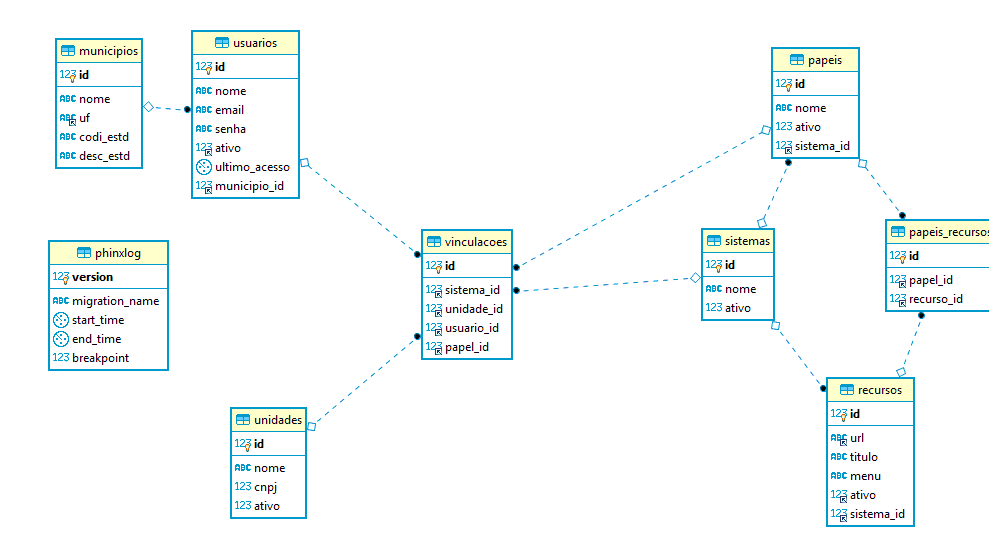
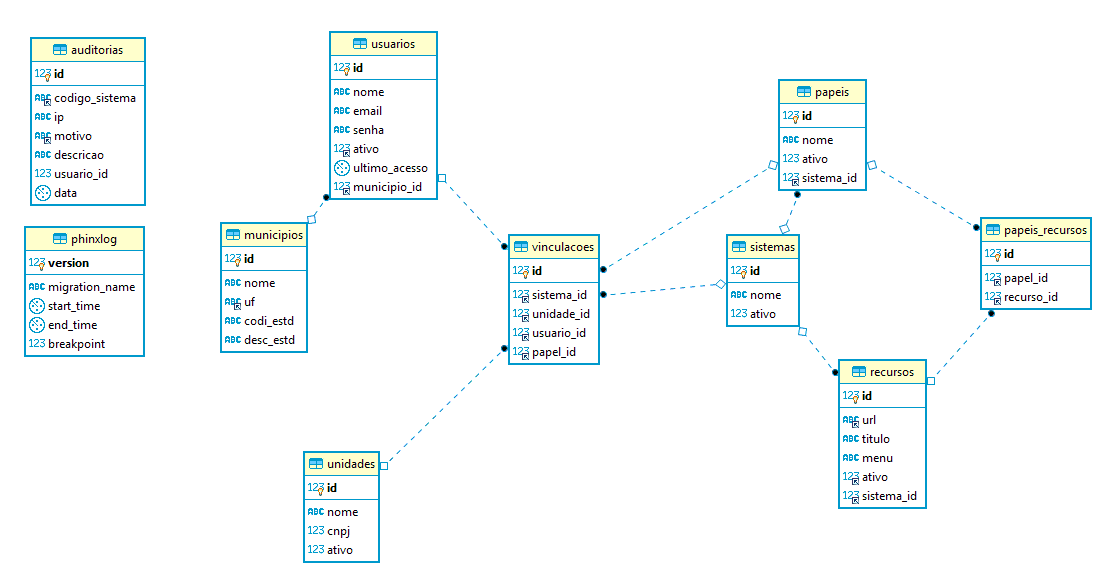
atualizando auditorias

diff --git a/src/Model/Table/AuditoriasTable.php b/src/Model/Table/AuditoriasTable.php
@@ -1,0 +1,115 @@
+<?php
+namespace App\Model\Table;
+
+use Cake\ORM\Query;
+use Cake\ORM\RulesChecker;
+use Cake\ORM\Table;
+use Cake\Validation\Validator;
+use Cake\Event\Event;
+use Cake\Datasource\EntityInterface;
+use ArrayObject;
+use Exception;
+
+/**
+ * Auditorias Model
+ *
+ * @property \App\Model\Table\UsuariosTable&\Cake\ORM\Association\BelongsTo $Usuarios
+ *
+ * @method \App\Model\Entity\Auditoria get($primaryKey, $options = [])
+ * @method \App\Model\Entity\Auditoria newEntity($data = null, array $options = [])
+ * @method \App\Model\Entity\Auditoria[] newEntities(array $data, array $options = [])
+ * @method \App\Model\Entity\Auditoria|false save(\Cake\Datasource\EntityInterface $entity, $options = [])
+ * @method \App\Model\Entity\Auditoria saveOrFail(\Cake\Datasource\EntityInterface $entity, $options = [])
+ * @method \App\Model\Entity\Auditoria patchEntity(\Cake\Datasource\EntityInterface $entity, array $data, array $options = [])
+ * @method \App\Model\Entity\Auditoria[] patchEntities($entities, array $data, array $options = [])
+ * @method \App\Model\Entity\Auditoria findOrCreate($search, callable $callback = null, $options = [])
+ */
+class AuditoriasTable extends Table
+{
+    /**
+     * Initialize method
+     *
+     * @param array $config The configuration for the Table.
+     * @return void
+     */
+    public function initialize(array $config)
+    {
+        parent::initialize($config);
+
+        $this->setTable('auditorias');
+        $this->setDisplayField('motivo');
+        $this->setPrimaryKey('id');
+        $this->setEntityClass('Auditoria');
+    }
+
+    /**
+     * Default validation rules.
+     *
+     * @param \Cake\Validation\Validator $validator Validator instance.
+     * @return \Cake\Validation\Validator
+     */
+    public function validationDefault(Validator $validator)
+    {
+        $validator
+            ->integer('id')
+            ->allowEmptyString('id', null, 'create');
+
+        $validator
+            ->scalar('codigo_sistema')
+            ->maxLength('codigo_sistema', 20)
+            ->notEmptyString('codigo_sistema');
+
+        $validator
+            ->scalar('ip')
+            ->maxLength('ip', 20)
+            ->notEmptyString('ip');
+
+        $validator
+            ->scalar('motivo')
+            ->maxLength('motivo', 50)
+            ->notEmptyString('motivo');
+
+        $validator
+            ->scalar('descricao')
+            ->maxLength('descricao', 250)
+            ->notEmptyString('descricao');
+
+        $validator
+            ->dateTime('data')
+            ->notEmptyDateTime('data');
+
+        return $validator;
+    }
+
+    /**
+     * Modifica a entidade antes de salvar, desta forma os campos serão persistidos no banco de dados também.
+     *
+     * @param   \Cake\Event\Event                   $event The beforeSave event that was fired
+     * @param   \Cake\Datasource\EntityInterface    $entity The entity that is going to be saved
+     * @param   \ArrayObject                        $options the options passed to the save method
+     * @return  void
+     */
+    public function beforeSave(Event $event, EntityInterface $entity, ArrayObject $options)
+    {
+        $entity['codigo_sistema']   = SISTEMA;
+        $entity['ip']               = IP;
+        $entity['data']             = date('Y-m-d H:i:s');
+        $entity['usuario_id']       = $_SESSION['Auth']['User']['id'];
+    }
+
+    /**
+     * Salva uma auditoria
+     *
+     * @param   string      $motivo     Motivo da auditoria
+     * @param   string      $descricao  Descrição da Auditoria.
+     * @return  boolean     boolean     Verdadeiro em caso de sucesso, Falso se não.
+     */
+    public function auditar($motivo='', $descricao='')
+    {
+        $Auditoria                  = $this->newEntity();
+        $Auditoria->motivo          = $motivo;
+        $Auditoria->descricao       = $descricao;
+
+        if ( !$this->save($Auditoria) ) return false; else return true;
+    }
+}

diff --git a/tests/Fixture/AuditoriasFixture.php b/tests/Fixture/AuditoriasFixture.php
@@ -1,0 +1,58 @@
+<?php
+namespace App\Test\Fixture;
+
+use Cake\TestSuite\Fixture\TestFixture;
+
+/**
+ * AuditoriasFixture
+ */
+class AuditoriasFixture extends TestFixture
+{
+    /**
+     * Fields
+     *
+     * @var array
+     */
+    // @codingStandardsIgnoreStart
+    public $fields = [
+        'id' => ['type' => 'integer', 'length' => 11, 'unsigned' => false, 'null' => false, 'default' => null, 'comment' => '', 'autoIncrement' => true, 'precision' => null],
+        'codigo_sistema' => ['type' => 'string', 'length' => 20, 'null' => false, 'default' => '', 'collate' => 'utf8_general_ci', 'comment' => '', 'precision' => null, 'fixed' => null],
+        'ip' => ['type' => 'string', 'length' => 20, 'null' => false, 'default' => '', 'collate' => 'utf8_general_ci', 'comment' => '', 'precision' => null, 'fixed' => null],
+        'motivo' => ['type' => 'string', 'length' => 50, 'null' => false, 'default' => '', 'collate' => 'utf8_general_ci', 'comment' => '', 'precision' => null, 'fixed' => null],
+        'descricao' => ['type' => 'string', 'length' => 250, 'null' => false, 'default' => '', 'collate' => 'utf8_general_ci', 'comment' => '', 'precision' => null, 'fixed' => null],
+        'usuario_id' => ['type' => 'integer', 'length' => 11, 'unsigned' => false, 'null' => false, 'default' => '0', 'comment' => '', 'precision' => null, 'autoIncrement' => null],
+        'data' => ['type' => 'timestamp', 'length' => null, 'null' => false, 'default' => '0000-00-00 00:00:00', 'comment' => '', 'precision' => null],
+        '_indexes' => [
+            'codigo_sistema' => ['type' => 'index', 'columns' => ['codigo_sistema'], 'length' => []],
+            'motivo' => ['type' => 'index', 'columns' => ['motivo'], 'length' => []],
+        ],
+        '_constraints' => [
+            'primary' => ['type' => 'primary', 'columns' => ['id'], 'length' => []],
+        ],
+        '_options' => [
+            'engine' => 'InnoDB',
+            'collation' => 'utf8_general_ci'
+        ],
+    ];
+    // @codingStandardsIgnoreEnd
+    /**
+     * Init method
+     *
+     * @return void
+     */
+    public function init()
+    {
+        $this->records = [
+            [
+                'id' => 1,
+                'codigo_sistema' => 'Lorem ipsum dolor ',
+                'ip' => 'Lorem ipsum dolor ',
+                'motivo' => 'Lorem ipsum dolor sit amet',
+                'descricao' => 'Lorem ipsum dolor sit amet',
+                'usuario_id' => 1,
+                'data' => 1575297167
+            ],
+        ];
+        parent::init();
+    }
+}

diff --git a/config/Migrations/20191125134922_Base.php b/config/Migrations/20191125134922_Base.php
@@ -20,7 +20,6 @@ class Base extends AbstractMigration {
      */
     public function up()
     {
-        // tabela municípios
         $this->table('municipios')
             ->addColumn('nome',         'string', ['default' => '-', 'limit' => 100, 'null' => false])
             ->addColumn('uf',           'string', ['default' => '-', 'limit' => 2, 'null' => false])
@@ -53,7 +52,6 @@ class Base extends AbstractMigration {
             ->create(['nome']);
         $this->updateUnidades();
 
-        // tabela usuários
         $this->table('usuarios')
             ->addColumn('nome',         'string', ['default' => '', 'limit' => 100, 'null' => false])
             ->addColumn('email',        'string', ['default' => '', 'limit' => 100, 'null' => false])
@@ -107,6 +105,19 @@ class Base extends AbstractMigration {
             ->update();
         $this->updateVinculacoes();
 
+        $this->table('auditorias')
+            ->addColumn('codigo_sistema',   'string',   ['default'=>'', 'limit'=>20,  'null'=>false])
+            ->addColumn('ip',               'string',   ['default'=>'', 'limit'=>20,  'null'=>false])
+            ->addColumn('motivo',           'string',   ['default'=>'', 'limit'=>50, 'null'=>false])
+            ->addColumn('descricao',        'string',   ['default'=>'', 'limit'=>250, 'null'=>false])
+            ->addColumn('usuario_id',       'integer',  ['default'=>0,'null'=>false])
+            ->addColumn('data',             'timestamp',['default' => 0, 'null' => false])
+            ->create();
+        $this->table('auditorias')
+            ->addIndex(['codigo_sistema'])
+            ->addIndex(['motivo'])
+            ->update();
+
         echo "\n";
     }
  
@@ -115,6 +126,7 @@ class Base extends AbstractMigration {
      */
     public function down()
     {
+        $this->table('auditorias')->drop()->save();
         $this->table('vinculacoes')->drop()->save();
         $this->table('usuarios')->dropForeignKey('municipio_id')->save();
         $this->table('municipios')->drop()->save();

diff --git a/tests/TestCase/Model/Table/AuditoriasTableTest.php b/tests/TestCase/Model/Table/AuditoriasTableTest.php
@@ -1,0 +1,83 @@
+<?php
+namespace App\Test\TestCase\Model\Table;
+
+use App\Model\Table\AuditoriasTable;
+use Cake\ORM\TableRegistry;
+use Cake\TestSuite\TestCase;
+
+/**
+ * App\Model\Table\AuditoriasTable Test Case
+ */
+class AuditoriasTableTest extends TestCase
+{
+    /**
+     * Test subject
+     *
+     * @var \App\Model\Table\AuditoriasTable
+     */
+    public $Auditorias;
+
+    /**
+     * Fixtures
+     *
+     * @var array
+     */
+    public $fixtures = [
+        'app.Auditorias',
+        'app.Usuarios'
+    ];
+
+    /**
+     * setUp method
+     *
+     * @return void
+     */
+    public function setUp()
+    {
+        parent::setUp();
+        $config = TableRegistry::getTableLocator()->exists('Auditorias') ? [] : ['className' => AuditoriasTable::class];
+        $this->Auditorias = TableRegistry::getTableLocator()->get('Auditorias', $config);
+    }
+
+    /**
+     * tearDown method
+     *
+     * @return void
+     */
+    public function tearDown()
+    {
+        unset($this->Auditorias);
+
+        parent::tearDown();
+    }
+
+    /**
+     * Test initialize method
+     *
+     * @return void
+     */
+    public function testInitialize()
+    {
+        $this->markTestIncomplete('Not implemented yet.');
+    }
+
+    /**
+     * Test validationDefault method
+     *
+     * @return void
+     */
+    public function testValidationDefault()
+    {
+        $this->markTestIncomplete('Not implemented yet.');
+    }
+
+    /**
+     * Test buildRules method
+     *
+     * @return void
+     */
+    public function testBuildRules()
+    {
+        $this->markTestIncomplete('Not implemented yet.');
+    }
+}

diff --git a/src/Controller/PainelController.php b/src/Controller/PainelController.php
@@ -33,6 +33,11 @@ class PainelController extends AppController
      */
     public function logout()
     {
+        $this->loadModel('Auditorias');
+
+        // auditando o acesso do usuário
+        $this->Auditorias->auditar('acessos', 'O Usuário saiu do sistema');
+
         $this->Flash->success( __('Logout efetuado com sucesso.') );
         return $this->redirect($this->Auth->logout());
     }
@@ -60,6 +65,7 @@ class PainelController extends AppController
             try
             {
                 $this->loadModel('Usuarios');
+                $this->loadModel('Auditorias');
 
                 if ( !$LoginForm->execute($this->request->getData()) )
                 {
@@ -84,6 +90,9 @@ class PainelController extends AppController
                 // configurando a sessão com os dados e permissões do usuário
                 $usuario['Permissoes'] = $this->Usuarios->getPermissoes( $usuario['id']);
                 $this->Auth->setUser( $usuario );
+
+                // auditando o acesso do usuário
+                $this->Auditorias->auditar('acessos', 'O Usuário entrou no sistema');
 
                 // retornando pra página inicial
                 $this->Flash->success( __('Usuário logado com sucesso !') );

diff --git a/src/Model/Entity/Auditoria.php b/src/Model/Entity/Auditoria.php
@@ -1,0 +1,39 @@
+<?php
+namespace App\Model\Entity;
+
+use Cake\ORM\Entity;
+
+/**
+ * Auditoria Entity
+ *
+ * @property int $id
+ * @property string $codigo_sistema
+ * @property string $ip
+ * @property string $motivo
+ * @property string $descricao
+ * @property int $usuario_id
+ * @property \Cake\I18n\FrozenTime $data
+ *
+ * @property \App\Model\Entity\Usuario $usuario
+ */
+class Auditoria extends Entity
+{
+    /**
+     * Fields that can be mass assigned using newEntity() or patchEntity().
+     *
+     * Note that when '*' is set to true, this allows all unspecified fields to
+     * be mass assigned. For security purposes, it is advised to set '*' to false
+     * (or remove it), and explicitly make individual fields accessible as needed.
+     *
+     * @var array
+     */
+    protected $_accessible = [
+        'codigo_sistema' => true,
+        'ip' => true,
+        'motivo' => true,
+        'descricao' => true,
+        'usuario_id' => true,
+        'data' => true,
+        'usuario' => true
+    ];
+}

diff --git a/src/Controller/FerramentasController.php b/src/Controller/FerramentasController.php
@@ -20,12 +20,14 @@ class FerramentasController extends AppController {
      */
     public function limparCache()
     {
-
     	$shell 	= new \Cake\Console\ShellDispatcher();
         $output = $shell->run(['cake', 'cache', 'clear_all']);
 
         if (0 === $output)
         {
+            $this->loadModel('Auditorias');
+            $this->Auditorias->auditar('cache', 'Limpei o cache do sistema');
+
         	$this->Flash->success(__('O Cache foi limpo com sucesso !'));
         } else
         {

diff --git a/config/constants.php b/config/constants.php
@@ -2,3 +2,5 @@
 	define('SISTEMA', 'cakeGrid');
 
 	define('VERSAO', 'v.0.01');
+
+	define('IP', $_SERVER['REMOTE_ADDR']);
